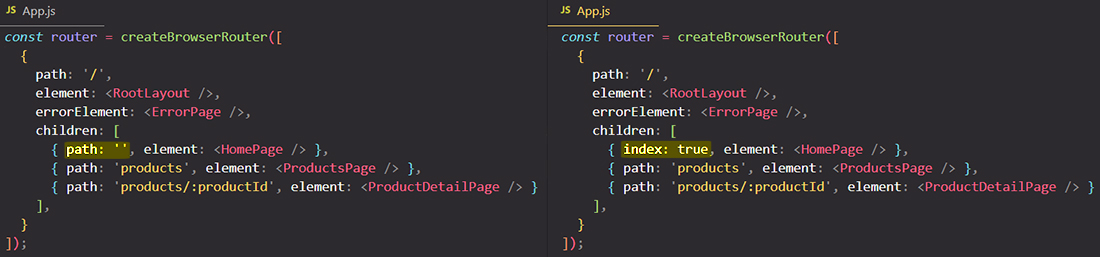
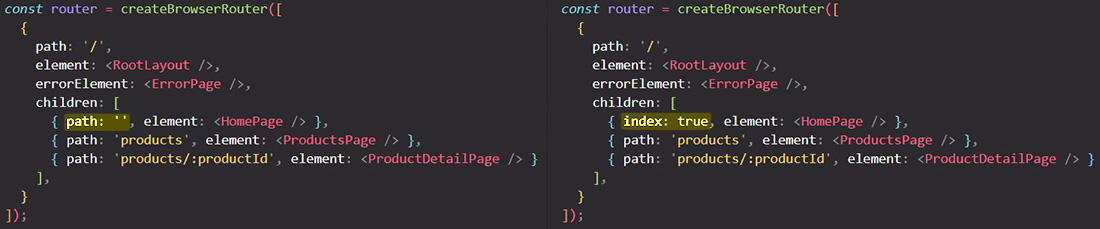
update

diff --git a/src/markdowns/12_React_Router/Working_with_index_routes.html b/src/markdowns/12_React_Router/Working_with_index_routes.html
@@ -6,6 +6,7 @@
 <style type='text/css'>html {overflow-x: initial !important;}:root { --bg-color:#ffffff; --text-color:#333333; --select-text-bg-color:#B5D6FC; --select-text-font-color:auto; --monospace:"Lucida Console",Consolas,"Courier",monospace; --title-bar-height:20px; }
 .mac-os-11 { --title-bar-height:28px; }
 html { font-size: 14px; background-color: var(--bg-color); color: var(--text-color); font-family: "Helvetica Neue", Helvetica, Arial, sans-serif; -webkit-font-smoothing: antialiased; }
+h1, h2, h3, h4, h5 { white-space: pre-wrap; }
 body { margin: 0px; padding: 0px; height: auto; inset: 0px; font-size: 1rem; line-height: 1.42857; overflow-x: hidden; background: inherit; tab-size: 4; }
 iframe { margin: auto; }
 a.url { word-break: break-all; }
@@ -86,12 +87,14 @@ blockquote > :first-child, li > :first-child { margin-top: 0px; }
 #write .footnote-line { white-space: pre-wrap; }
 @media print {
   body, html { border: 1px solid transparent; height: 99%; break-after: avoid; break-before: avoid; font-variant-ligatures: no-common-ligatures; }
-  #write { margin-top: 0px; padding-top: 0px; border-color: transparent !important; padding-bottom: 0px !important; }
+  #write { margin-top: 0px; border-color: transparent !important; padding-top: 0px !important; padding-bottom: 0px !important; }
   .typora-export * { -webkit-print-color-adjust: exact; }
   .typora-export #write { break-after: avoid; }
   .typora-export #write::after { height: 0px; }
   .is-mac table { break-inside: avoid; }
+  #write > p:nth-child(1) { margin-top: 0px; }
   .typora-export-show-outline .typora-export-sidebar { display: none; }
+  figure { overflow-x: visible; }
 }
 .footnote-line { margin-top: 0.714em; font-size: 0.7em; }
 a img, img a { cursor: pointer; }
@@ -168,7 +171,7 @@ mark .md-meta { color: rgb(0, 0, 0); }
 @media screen and (max-width: 800px) {
   .typora-export-sidebar { display: none; }
 }
-.outline-content li, .outline-content ul { margin-left: 0px; margin-right: 0px; padding-left: 0px; padding-right: 0px; list-style: none; }
+.outline-content li, .outline-content ul { margin-left: 0px; margin-right: 0px; padding-left: 0px; padding-right: 0px; list-style: none; overflow-wrap: anywhere; }
 .outline-content ul { margin-top: 0px; margin-bottom: 0px; }
 .outline-content strong { font-weight: 400; }
 .outline-expander { width: 1rem; height: 1.42857rem; position: relative; display: table-cell; vertical-align: middle; cursor: pointer; padding-left: 4px; }
@@ -200,87 +203,6 @@ mark .md-meta { color: rgb(0, 0, 0); }
 .typora-export-show-outline .outline-item-active > .outline-item .outline-label { font-weight: 700; }
 .md-inline-math-container mjx-container { zoom: 0.95; }
 mjx-container { break-inside: avoid; }
-
-
-.CodeMirror { height: auto; }
-.CodeMirror.cm-s-inner { background: inherit; }
-.CodeMirror-scroll { overflow: auto hidden; z-index: 3; }
-.CodeMirror-gutter-filler, .CodeMirror-scrollbar-filler { background-color: rgb(255, 255, 255); }
-.CodeMirror-gutters { border-right: 1px solid rgb(221, 221, 221); background: inherit; white-space: nowrap; }
-.CodeMirror-linenumber { padding: 0px 3px 0px 5px; text-align: right; color: rgb(153, 153, 153); }
-.cm-s-inner .cm-keyword { color: rgb(119, 0, 136); }
-.cm-s-inner .cm-atom, .cm-s-inner.cm-atom { color: rgb(34, 17, 153); }
-.cm-s-inner .cm-number { color: rgb(17, 102, 68); }
-.cm-s-inner .cm-def { color: rgb(0, 0, 255); }
-.cm-s-inner .cm-variable { color: rgb(0, 0, 0); }
-.cm-s-inner .cm-variable-2 { color: rgb(0, 85, 170); }
-.cm-s-inner .cm-variable-3 { color: rgb(0, 136, 85); }
-.cm-s-inner .cm-string { color: rgb(170, 17, 17); }
-.cm-s-inner .cm-property { color: rgb(0, 0, 0); }
-.cm-s-inner .cm-operator { color: rgb(152, 26, 26); }
-.cm-s-inner .cm-comment, .cm-s-inner.cm-comment { color: rgb(170, 85, 0); }
-.cm-s-inner .cm-string-2 { color: rgb(255, 85, 0); }
-.cm-s-inner .cm-meta { color: rgb(85, 85, 85); }
-.cm-s-inner .cm-qualifier { color: rgb(85, 85, 85); }
-.cm-s-inner .cm-builtin { color: rgb(51, 0, 170); }
-.cm-s-inner .cm-bracket { color: rgb(153, 153, 119); }
-.cm-s-inner .cm-tag { color: rgb(17, 119, 0); }
-.cm-s-inner .cm-attribute { color: rgb(0, 0, 204); }
-.cm-s-inner .cm-header, .cm-s-inner.cm-header { color: rgb(0, 0, 255); }
-.cm-s-inner .cm-quote, .cm-s-inner.cm-quote { color: rgb(0, 153, 0); }
-.cm-s-inner .cm-hr, .cm-s-inner.cm-hr { color: rgb(153, 153, 153); }
-.cm-s-inner .cm-link, .cm-s-inner.cm-link { color: rgb(0, 0, 204); }
-.cm-negative { color: rgb(221, 68, 68); }
-.cm-positive { color: rgb(34, 153, 34); }
-.cm-header, .cm-strong { font-weight: 700; }
-.cm-del { text-decoration: line-through; }
-.cm-em { font-style: italic; }
-.cm-link { text-decoration: underline; }
-.cm-error { color: red; }
-.cm-invalidchar { color: red; }
-.cm-constant { color: rgb(38, 139, 210); }
-.cm-defined { color: rgb(181, 137, 0); }
-div.CodeMirror span.CodeMirror-matchingbracket { color: rgb(0, 255, 0); }
-div.CodeMirror span.CodeMirror-nonmatchingbracket { color: rgb(255, 34, 34); }
-.cm-s-inner .CodeMirror-activeline-background { background: inherit; }
-.CodeMirror { position: relative; overflow: hidden; }
-.CodeMirror-scroll { height: 100%; outline: 0px; position: relative; box-sizing: content-box; background: inherit; }
-.CodeMirror-sizer { position: relative; }
-.CodeMirror-gutter-filler, .CodeMirror-hscrollbar, .CodeMirror-scrollbar-filler, .CodeMirror-vscrollbar { position: absolute; z-index: 6; display: none; outline: 0px; }
-.CodeMirror-vscrollbar { right: 0px; top: 0px; overflow: hidden; }
-.CodeMirror-hscrollbar { bottom: 0px; left: 0px; overflow: auto hidden; }
-.CodeMirror-scrollbar-filler { right: 0px; bottom: 0px; }
-.CodeMirror-gutter-filler { left: 0px; bottom: 0px; }
-.CodeMirror-gutters { position: absolute; left: 0px; top: 0px; padding-bottom: 10px; z-index: 3; overflow-y: hidden; }
-.CodeMirror-gutter { white-space: normal; height: 100%; box-sizing: content-box; padding-bottom: 30px; margin-bottom: -32px; display: inline-block; }
-.CodeMirror-gutter-wrapper { position: absolute; z-index: 4; background: 0px 0px !important; border: none !important; }
-.CodeMirror-gutter-background { position: absolute; top: 0px; bottom: 0px; z-index: 4; }
-.CodeMirror-gutter-elt { position: absolute; cursor: default; z-index: 4; }
-.CodeMirror-lines { cursor: text; }
-.CodeMirror pre { border-radius: 0px; border-width: 0px; background: 0px 0px; font-family: inherit; font-size: inherit; margin: 0px; white-space: pre; overflow-wrap: normal; color: inherit; z-index: 2; position: relative; overflow: visible; }
-.CodeMirror-wrap pre { overflow-wrap: break-word; white-space: pre-wrap; word-break: normal; }
-.CodeMirror-code pre { border-right: 30px solid transparent; width: fit-content; }
-.CodeMirror-wrap .CodeMirror-code pre { border-right: none; width: auto; }
-.CodeMirror-linebackground { position: absolute; inset: 0px; z-index: 0; }
-.CodeMirror-linewidget { position: relative; z-index: 2; overflow: auto; }
-.CodeMirror-wrap .CodeMirror-scroll { overflow-x: hidden; }
-.CodeMirror-measure { position: absolute; width: 100%; height: 0px; overflow: hidden; visibility: hidden; }
-.CodeMirror-measure pre { position: static; }
-.CodeMirror div.CodeMirror-cursor { position: absolute; visibility: hidden; border-right: none; width: 0px; }
-.CodeMirror div.CodeMirror-cursor { visibility: hidden; }
-.CodeMirror-focused div.CodeMirror-cursor { visibility: inherit; }
-.cm-searching { background: rgba(255, 255, 0, 0.4); }
-span.cm-underlined { text-decoration: underline; }
-span.cm-strikethrough { text-decoration: line-through; }
-.cm-tw-syntaxerror { color: rgb(255, 255, 255); background-color: rgb(153, 0, 0); }
-.cm-tw-deleted { text-decoration: line-through; }
-.cm-tw-header5 { font-weight: 700; }
-.cm-tw-listitem:first-child { padding-left: 10px; }
-.cm-tw-box { border-style: solid; border-right-width: 1px; border-bottom-width: 1px; border-left-width: 1px; border-color: inherit; border-top-width: 0px !important; }
-.cm-tw-underline { text-decoration: underline; }
-@media print {
-  .CodeMirror div.CodeMirror-cursor { visibility: hidden; }
-}
 
 
 :root {
@@ -2337,6 +2259,6 @@ li {
 </style><title>Working_with_index_routes</title>
 </head>
 <body class='typora-export os-windows'><div class='typora-export-content'>
-<div id='write'  class=''><h1 id='working-with-index-routes'><span>Working with index routes</span></h1><p><span>There is one special property you can add to some route definitions. This special property that would, for example, apply to the </span><code>&lt;HomePage&gt;</code><span> route definition in the example below:</span></p><pre class="md-fences md-end-block ty-contain-cm modeLoaded" spellcheck="false" lang="react"><div class="CodeMirror cm-s-inner cm-s-null-scroll CodeMirror-wrap" lang="react"><div style="overflow: hidden; position: relative; width: 3px; height: 0px; top: 9.51875px; left: 8px;"><textarea autocorrect="off" autocapitalize="off" spellcheck="false" tabindex="0" style="position: absolute; bottom: -1em; padding: 0px; width: 1000px; height: 1em; outline: none;"></textarea></div><div class="CodeMirror-scrollbar-filler" cm-not-content="true"></div><div class="CodeMirror-gutter-filler" cm-not-content="true"></div><div class="CodeMirror-scroll" tabindex="-1"><div class="CodeMirror-sizer" style="margin-left: 0px; margin-bottom: 0px; border-right-width: 0px; padding-right: 0px; padding-bottom: 0px;"><div style="position: relative; top: 0px;"><div class="CodeMirror-lines" role="presentation"><div role="presentation" style="position: relative; outline: none;"><div class="CodeMirror-measure"><pre><span>xxxxxxxxxx</span></pre></div><div class="CodeMirror-measure"></div><div style="position: relative; z-index: 1;"></div><div class="CodeMirror-code" role="presentation" style=""><div class="CodeMirror-activeline" style="position: relative;"><div class="CodeMirror-activeline-background CodeMirror-linebackground"></div><div class="CodeMirror-gutter-background CodeMirror-activeline-gutter" style="left: 0px; width: 0px;"></div><pre class=" CodeMirror-line " role="presentation"><span role="presentation" style="padding-right: 0.1px;"><span class="cm-keyword">const</span> <span class="cm-def">router</span> <span class="cm-operator">=</span> <span class="cm-variable">createBrowserRouter</span>([</span></pre></div><pre class=" CodeMirror-line " role="presentation"><span role="presentation" style="padding-right: 0.1px;">  {</span></pre><pre class=" CodeMirror-line " role="presentation"><span role="presentation" style="padding-right: 0.1px;"> &nbsp; &nbsp;<span class="cm-property">path</span>: <span class="cm-string">'/'</span>,</span></pre><pre class=" CodeMirror-line " role="presentation"><span role="presentation" style="padding-right: 0.1px;"> &nbsp; &nbsp;<span class="cm-property">element</span>: <span class="cm-tag cm-bracket">&lt;</span><span class="cm-tag">RootLayout</span> <span class="cm-tag cm-bracket">/&gt;</span>,</span></pre><pre class=" CodeMirror-line " role="presentation"><span role="presentation" style="padding-right: 0.1px;"> &nbsp; &nbsp;<span class="cm-property">errorElement</span>: <span class="cm-tag cm-bracket">&lt;</span><span class="cm-tag">ErrorPage</span> <span class="cm-tag cm-bracket">/&gt;</span>,</span></pre><pre class=" CodeMirror-line " role="presentation"><span role="presentation" style="padding-right: 0.1px;"> &nbsp; &nbsp;<span class="cm-property">children</span>: [</span></pre><pre class=" CodeMirror-line " role="presentation"><span role="presentation" style="padding-right: 0.1px;"> &nbsp; &nbsp;  { <span class="cm-property">path</span>: <span class="cm-string">''</span>, <span class="cm-property">element</span>: <span class="cm-tag cm-bracket">&lt;</span><span class="cm-tag">HomePage</span> <span class="cm-tag cm-bracket">/&gt;</span> },</span></pre><pre class=" CodeMirror-line " role="presentation"><span role="presentation" style="padding-right: 0.1px;"> &nbsp; &nbsp;  { <span class="cm-property">path</span>: <span class="cm-string">'products'</span>, <span class="cm-property">element</span>: <span class="cm-tag cm-bracket">&lt;</span><span class="cm-tag">ProductsPage</span> <span class="cm-tag cm-bracket">/&gt;</span> },</span></pre><pre class=" CodeMirror-line " role="presentation"><span role="presentation" style="padding-right: 0.1px;"> &nbsp; &nbsp;  { <span class="cm-property">path</span>: <span class="cm-string">'products/:productId'</span>, <span class="cm-property">element</span>: <span class="cm-tag cm-bracket">&lt;</span><span class="cm-tag">ProductDetailPage</span> <span class="cm-tag cm-bracket">/&gt;</span> }</span></pre><pre class=" CodeMirror-line " role="presentation"><span role="presentation" style="padding-right: 0.1px;"> &nbsp;  ],</span></pre><pre class=" CodeMirror-line " role="presentation"><span role="presentation" style="padding-right: 0.1px;">  }</span></pre><pre class=" CodeMirror-line " role="presentation"><span role="presentation" style="padding-right: 0.1px;">]);</span></pre></div></div></div></div></div><div style="position: absolute; height: 0px; width: 1px; border-bottom: 0px solid transparent; top: 276px;"></div><div class="CodeMirror-gutters" style="display: none; height: 276px;"></div></div></div></pre><p><span>What&#39;s special about this </span><code>&lt;HomePage&gt;</code><span> route definition? Well, in the end, </span><mark><span>it doesn&#39;t have a path</span></mark><span>. Instead, the </span><code>&lt;HomePage&gt;</code><span> should be </span><mark><span>loaded for the same path as we have on the parent route</span></mark><span>. We have two different routes because we want to have the </span><code>&lt;RootLayout&gt;</code><span> as wrapping layout.</span></p><p><mark><span>It is quite common that you might have a wrapping layout route and then you have one child route that should be loaded for the parent&#39;s route path</span></mark><span>. Now, you could solve it by adding no path like in example above, but alternatively you can add the special </span><code>index</code><span> property and set it to </span><code>true</code><span>.</span></p><pre class="md-fences md-end-block ty-contain-cm modeLoaded" spellcheck="false" lang="react"><div class="CodeMirror cm-s-inner cm-s-null-scroll CodeMirror-wrap" lang="react"><div style="overflow: hidden; position: relative; width: 3px; height: 0px; top: 9.51875px; left: 8px;"><textarea autocorrect="off" autocapitalize="off" spellcheck="false" tabindex="0" style="position: absolute; bottom: -1em; padding: 0px; width: 1000px; height: 1em; outline: none;"></textarea></div><div class="CodeMirror-scrollbar-filler" cm-not-content="true"></div><div class="CodeMirror-gutter-filler" cm-not-content="true"></div><div class="CodeMirror-scroll" tabindex="-1"><div class="CodeMirror-sizer" style="margin-left: 0px; margin-bottom: 0px; border-right-width: 0px; padding-right: 0px; padding-bottom: 0px;"><div style="position: relative; top: 0px;"><div class="CodeMirror-lines" role="presentation"><div role="presentation" style="position: relative; outline: none;"><div class="CodeMirror-measure"><pre><span>xxxxxxxxxx</span></pre></div><div class="CodeMirror-measure"></div><div style="position: relative; z-index: 1;"></div><div class="CodeMirror-code" role="presentation" style=""><div class="CodeMirror-activeline" style="position: relative;"><div class="CodeMirror-activeline-background CodeMirror-linebackground"></div><div class="CodeMirror-gutter-background CodeMirror-activeline-gutter" style="left: 0px; width: 0px;"></div><pre class=" CodeMirror-line " role="presentation"><span role="presentation" style="padding-right: 0.1px;"><span class="cm-keyword">const</span> <span class="cm-def">router</span> <span class="cm-operator">=</span> <span class="cm-variable">createBrowserRouter</span>([</span></pre></div><pre class=" CodeMirror-line " role="presentation"><span role="presentation" style="padding-right: 0.1px;">  {</span></pre><pre class=" CodeMirror-line " role="presentation"><span role="presentation" style="padding-right: 0.1px;"> &nbsp; &nbsp;<span class="cm-property">path</span>: <span class="cm-string">'/'</span>,</span></pre><pre class=" CodeMirror-line " role="presentation"><span role="presentation" style="padding-right: 0.1px;"> &nbsp; &nbsp;<span class="cm-property">element</span>: <span class="cm-tag cm-bracket">&lt;</span><span class="cm-tag">RootLayout</span> <span class="cm-tag cm-bracket">/&gt;</span>,</span></pre><pre class=" CodeMirror-line " role="presentation"><span role="presentation" style="padding-right: 0.1px;"> &nbsp; &nbsp;<span class="cm-property">errorElement</span>: <span class="cm-tag cm-bracket">&lt;</span><span class="cm-tag">ErrorPage</span> <span class="cm-tag cm-bracket">/&gt;</span>,</span></pre><pre class=" CodeMirror-line " role="presentation"><span role="presentation" style="padding-right: 0.1px;"> &nbsp; &nbsp;<span class="cm-property">children</span>: [</span></pre><pre class=" CodeMirror-line " role="presentation"><span role="presentation" style="padding-right: 0.1px;"> &nbsp; &nbsp;  { <span class="cm-property">index</span>: <span class="cm-atom">true</span>, <span class="cm-property">element</span>: <span class="cm-tag cm-bracket">&lt;</span><span class="cm-tag">HomePage</span> <span class="cm-tag cm-bracket">/&gt;</span> },</span></pre><pre class=" CodeMirror-line " role="presentation"><span role="presentation" style="padding-right: 0.1px;"> &nbsp; &nbsp;  { <span class="cm-property">path</span>: <span class="cm-string">'products'</span>, <span class="cm-property">element</span>: <span class="cm-tag cm-bracket">&lt;</span><span class="cm-tag">ProductsPage</span> <span class="cm-tag cm-bracket">/&gt;</span> },</span></pre><pre class=" CodeMirror-line " role="presentation"><span role="presentation" style="padding-right: 0.1px;"> &nbsp; &nbsp;  { <span class="cm-property">path</span>: <span class="cm-string">'products/:productId'</span>, <span class="cm-property">element</span>: <span class="cm-tag cm-bracket">&lt;</span><span class="cm-tag">ProductDetailPage</span> <span class="cm-tag cm-bracket">/&gt;</span> }</span></pre><pre class=" CodeMirror-line " role="presentation"><span role="presentation" style="padding-right: 0.1px;"> &nbsp;  ],</span></pre><pre class=" CodeMirror-line " role="presentation"><span role="presentation" style="padding-right: 0.1px;">  }</span></pre><pre class=" CodeMirror-line " role="presentation"><span role="presentation" style="padding-right: 0.1px;">]);</span></pre></div></div></div></div></div><div style="position: absolute; height: 0px; width: 1px; border-bottom: 0px solid transparent; top: 276px;"></div><div class="CodeMirror-gutters" style="display: none; height: 276px;"></div></div></div></pre><p><span>The </span><code>index</code><span> property turns the </span><code>&lt;HomePage&gt;</code><span> route into a so-called index route, which simply means it&#39;s the default route that should be displayed if the parent route&#39;s path is currently active. So it will not be loaded for </span><code>products</code><span> or </span><code>products/productId</code><span>, but if we&#39;re on just </span><code>/</code><span> the </span><code>&lt;HomePage&gt;</code><span> index route will be activated.</span></p><p><span>With </span><code>{ index: true, element: &lt;HomePage/&gt; }</code><span> we get the same behavior as before when we have </span><code>{ path: &#39;&#39;, element: &lt;HomePage/&gt; }</code><span>. </span><mark><span>You should be aware of this feature called index routes which allows you to define the default route that should be loaded if the parent routes path is active</span></mark><span>.</span></p><p><img src="../../img/Working_with_index_routes.jpg" referrerpolicy="no-referrer" alt="Working_with_index_routes"></p><h2 id='references'><span>References</span></h2><ol start='' ><li><a href='https://www.udemy.com/course/react-the-complete-guide-incl-redux/'><span>React - The Complete Guide (incl Hooks, React Router, Redux) - Maximilian Schwarzmüller</span></a></li></ol></div></div>
+<div id='write'  class=''><h1 id='working-with-index-routes'><span>Working with index routes</span></h1><p><span>There is one special property you can add to some route definitions. This special property that would, for example, apply to the </span><code>&lt;HomePage&gt;</code><span> route definition in the example below:</span></p><p><img src="../../img/Working_with_index_routes.jpg" referrerpolicy="no-referrer" alt="Working_with_index_routes"></p><p><span>What&#39;s special about this </span><code>&lt;HomePage&gt;</code><span> route definition? Well, in the end, </span><mark><span>it doesn&#39;t have a path</span></mark><span>. Instead, the </span><code>&lt;HomePage&gt;</code><span> should be </span><mark><span>loaded for the same path as we have on the parent route</span></mark><span>. We have two different routes because we want to have the </span><code>&lt;RootLayout&gt;</code><span> as wrapping layout. </span><mark><span>It is quite common that you might have a wrapping layout route and then you have one child route that should be loaded for the parent&#39;s route path</span></mark><span>. Now, you could solve it by adding no path like in example above, but alternatively you can add the special </span><code>index</code><span> property and set it to </span><code>true</code><span>.</span></p><p><span>The </span><code>index</code><span> property turns the </span><code>&lt;HomePage&gt;</code><span> route into a so-called index route, which simply means it&#39;s the default route that should be displayed if the parent route&#39;s path is currently active. So it will not be loaded for </span><code>products</code><span> or </span><code>products/productId</code><span>, but if we&#39;re on just </span><code>/</code><span> the </span><code>&lt;HomePage&gt;</code><span> index route will be activated.</span></p><p><span>With </span><code>{ index: true, element: &lt;HomePage/&gt; }</code><span> we get the same behavior as before when we have </span><code>{ path: &#39;&#39;, element: &lt;HomePage/&gt; }</code><span>. </span><mark><span>You should be aware of this feature called index routes which allows you to define the default route that should be loaded if the parent routes path is active. Index routes render in their parent route&#39;s </span><a href='https://reactrouter.com/en/main/start/concepts#outlet'><span>outlet</span></a><span> at the parent route&#39;s path</span></mark><span>.</span></p><h2 id='references'><span>References</span></h2><ol start='' ><li><p><a href='https://www.udemy.com/course/react-the-complete-guide-incl-redux/'><span>React - The Complete Guide (incl Hooks, React Router, Redux) - Maximilian Schwarzmüller</span></a></p></li><li><p><a href='https://reactrouter.com/en/main/route/route#index'><span>Index route - reactrouter.dom</span></a></p></li><li><p><a href='https://reactrouter.com/en/main/start/concepts#index-routes'><span>Index routes - reactrouter.dom</span></a></p></li></ol></div></div>
 </body>
 </html>

diff --git a/src/js/model/modelDataStorage.js b/src/js/model/modelDataStorage.js
@@ -1218,15 +1218,16 @@ const section12 = {
       ],
     },
     {
-      sectionTitle: 'Working with index Routes',
+      sectionTitle: 'Working with index routes',
       sectionSource:
         '/src/markdowns/12_React_Router/Working_with_index_routes.html',
       highlights: {
         highlight1: ['index Routes'],
       },
       tooltips: [
-        'Index Routes can be used for children routes that have the same path as the parent route.',
-        'Index Routes allows you to define the <i><u>default route</u> that should be loaded for a child route if the parent route path is active</i>.',
+        'Index routes can be used for children routes that have the same path as the parent route.',
+        "It is quite common that you might have a wrapping layout route and then <i>you have one child route that should be loaded for the parent's route path. Index routes render in their parent route's <code><<span>Outlet/</span>></code> at the parent route's path</i>.",
+        'Index routes allows you to define the <i><u>default route</u> that should be loaded for a child route if the parent route path is active</i>.',
       ],
     },
     {

diff --git a/src/markdowns/12_React_Router/Working_with_index_routes.md b/src/markdowns/12_React_Router/Working_with_index_routes.md
@@ -2,46 +2,16 @@
 
 There is one special property you can add to some route definitions. This special property that would, for example, apply to the `<HomePage>` route definition in the example below:
 
-```react
-const router = createBrowserRouter([
-  {
-    path: '/',
-    element: <RootLayout />,
-    errorElement: <ErrorPage />,
-    children: [
-      { path: '', element: <HomePage /> },
-      { path: 'products', element: <ProductsPage /> },
-      { path: 'products/:productId', element: <ProductDetailPage /> }
-    ],
-  }
-]);
-```
+![Working_with_index_routes](../../img/Working_with_index_routes.jpg)
 
-What's special about this `<HomePage>` route definition? Well, in the end, ==it doesn't have a path==. Instead, the `<HomePage>` should be ==loaded for the same path as we have on the parent route==. We have two different routes because we want to have the `<RootLayout>` as wrapping layout.
-
-==It is quite common that you might have a wrapping layout route and then you have one child route that should be loaded for the parent's route path==. Now, you could solve it by adding no path like in example above, but alternatively you can add the special `index` property and set it to `true`.
-
-```react
-const router = createBrowserRouter([
-  {
-    path: '/',
-    element: <RootLayout />,
-    errorElement: <ErrorPage />,
-    children: [
-      { index: true, element: <HomePage /> },
-      { path: 'products', element: <ProductsPage /> },
-      { path: 'products/:productId', element: <ProductDetailPage /> }
-    ],
-  }
-]);
-```
+What's special about this `<HomePage>` route definition? Well, in the end, ==it doesn't have a path==. Instead, the `<HomePage>` should be ==loaded for the same path as we have on the parent route==. We have two different routes because we want to have the `<RootLayout>` as wrapping layout. ==It is quite common that you might have a wrapping layout route and then you have one child route that should be loaded for the parent's route path==. Now, you could solve it by adding no path like in example above, but alternatively you can add the special `index` property and set it to `true`.
 
 The `index` property turns the `<HomePage>` route into a so-called index route, which simply means it's the default route that should be displayed if the parent route's path is currently active. So it will not be loaded for `products` or `products/productId`, but if we're on just `/` the `<HomePage>` index route will be activated.
 
-With `{ index: true, element: <HomePage/> }` we get the same behavior as before when we have `{ path: '', element: <HomePage/> }`. ==You should be aware of this feature called index routes which allows you to define the default route that should be loaded if the parent routes path is active==.
-
-![Working_with_index_routes](../../img/Working_with_index_routes.jpg)
+With `{ index: true, element: <HomePage/> }` we get the same behavior as before when we have `{ path: '', element: <HomePage/> }`. ==You should be aware of this feature called index routes which allows you to define the default route that should be loaded if the parent routes path is active. Index routes render in their parent route's [outlet](https://reactrouter.com/en/main/start/concepts#outlet) at the parent route's path==.
 
 ## References
 
 1. [React - The Complete Guide (incl Hooks, React Router, Redux) - Maximilian Schwarzmüller](https://www.udemy.com/course/react-the-complete-guide-incl-redux/)
+1. [Index route - reactrouter.dom](https://reactrouter.com/en/main/route/route#index)
+1. [Index routes - reactrouter.dom](https://reactrouter.com/en/main/start/concepts#index-routes)
